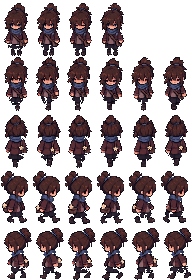
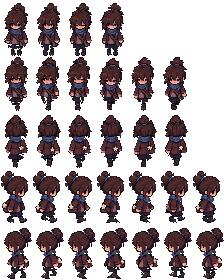
Articulate alternating side steps and add planted side idle poses

diff --git a/godot/README.md b/godot/README.md
@@ -15,7 +15,7 @@ A chuva varia automaticamente entre garoa, chuva moderada e pausas, com transiç
 
 CharacterBody2D flutuante, move_and_slide, aceleração, frenagem e diagonal normalizada. A cápsula de colisão fica nos pés. A fase dos passos acompanha a distância realmente percorrida, inclusive ao deslizar junto a obstáculos, e continua ao mudar de direção. Encostar em uma parede interrompe a caminhada. O analógico também controla a cadência.
 
-O importador registra as poses em pivôs medidos no quadril, com uma escala fixa por direção. Os perfis laterais compartilham a mesma cabeça, preservando as poses originais do corpo e dos pés para evitar que o rosto e o cabelo mudem durante cada passo. Não há espelhamento da personagem. A parada mantém a direção.
+O importador registra as poses em pivôs medidos no quadril, com uma escala fixa por direção. Os perfis laterais compartilham a mesma cabeça, preservando o desenho original para evitar que o rosto e o cabelo mudem durante cada passo. Um pequeno rig de recortes articula as duas pernas entre contato, passagem e contato oposto; a parada lateral usa uma pose própria com os dois pés apoiados. Não há espelhamento da personagem. A parada mantém a direção.
 
 As bases de colisão e silhuetas visuais em `data/lume_geometry.gd` são independentes. Y-sort organiza a profundidade. Barras de grades preservam os vãos. A sombra tem contato no chão e projeção da pose atual, influenciada pelas luminárias próximas.
 
